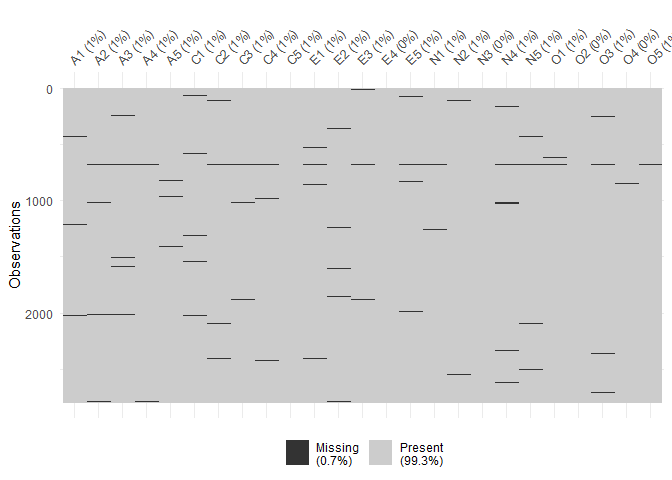
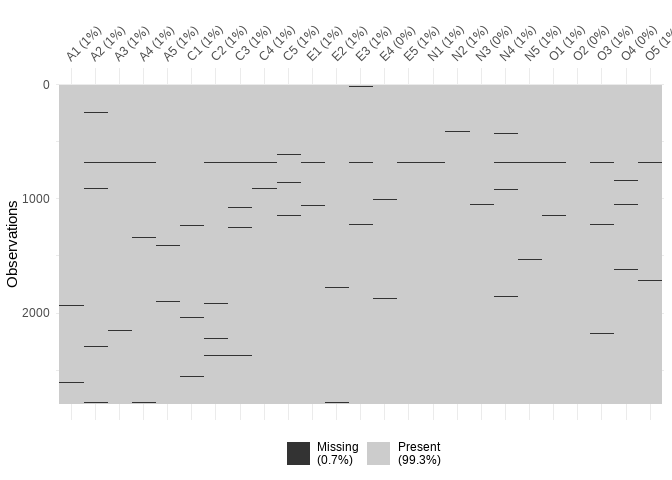
made new function to handle real data

diff --git a/README.md b/README.md
@@ -220,8 +220,24 @@ multiple replications of the data. As we can see, the convergence rate
 of the factors is almost linear.
 
 ``` r
-# Load the data
-data <- psych::bfi[, 1:25]
+# Real data and visualisation
+library(psych)
+library(dlookr)
+#> Registered S3 method overwritten by 'dlookr':
+#>   method         from  
+#>   plot.transform scales
+#> 
+#> Attaching package: 'dlookr'
+#> The following object is masked from 'package:psych':
+#> 
+#>     describe
+#> The following object is masked from 'package:base':
+#> 
+#>     transform
+library(visdat)
+
+## Dataset
+data = bfi[, 1:25]
 
 head(data)
 #>       A1 A2 A3 A4 A5 C1 C2 C3 C4 C5 E1 E2 E3 E4 E5 N1 N2 N3 N4 N5 O1 O2 O3 O4
@@ -239,10 +255,7 @@ head(data)
 #> 61622  3
 #> 61623  1
 #diagnose for missing value
-dlookr::diagnose(data)
-#> Registered S3 method overwritten by 'dlookr':
-#>   method         from  
-#>   plot.transform scales
+diagnose(data)
 #> # A tibble: 25 × 6
 #>    variables types   missing_count missing_percent unique_count unique_rate
 #>    <chr>     <chr>           <int>           <dbl>        <int>       <dbl>
@@ -257,14 +270,14 @@ dlookr::diagnose(data)
 #>  9 C4        integer            26           0.929            7      0.0025
 #> 10 C5        integer            16           0.571            7      0.0025
 #> # ℹ 15 more rows
-visdat::vis_miss(data, sort_miss = FALSE)
+vis_miss(data, sort_miss = FALSE)
 ```
 
 <img src="man/figures/README-unnamed-chunk-2-1.png" width="100%" />
 
 ``` r
 #imputation
-mice_model <- mice::mice(data, method='pmm', seed = 123)
+datalist = imputeData(data)
 #> 
 #>  iter imp variable
 #>   1   1  A1  A2  A3  A4  A5  C1  C2  C3  C4  C5  E1  E2  E3  E4  E5  N1  N2  N3  N4  N5  O1  O3  O4  O5
@@ -292,18 +305,6 @@ mice_model <- mice::mice(data, method='pmm', seed = 123)
 #>   5   3  A1  A2  A3  A4  A5  C1  C2  C3  C4  C5  E1  E2  E3  E4  E5  N1  N2  N3  N4  N5  O1  O3  O4  O5
 #>   5   4  A1  A2  A3  A4  A5  C1  C2  C3  C4  C5  E1  E2  E3  E4  E5  N1  N2  N3  N4  N5  O1  O3  O4  O5
 #>   5   5  A1  A2  A3  A4  A5  C1  C2  C3  C4  C5  E1  E2  E3  E4  E5  N1  N2  N3  N4  N5  O1  O3  O4  O5
-data_complete <- mice::complete(mice_model)
-
-visdat::vis_miss(data_complete, sort_miss = FALSE)
-```
-
-<img src="man/figures/README-unnamed-chunk-2-2.png" width="100%" />
-
-``` r
-
-
-##analysis
-datalist = list( "data" = data_complete, "replicate" = 1, "n" = nrow(data_complete), "p" = ncol(data_complete) )
 
 out = GibbsCov(datalist, 20000, 5000, 3, 1e-4)
 #> start replicate 1 
